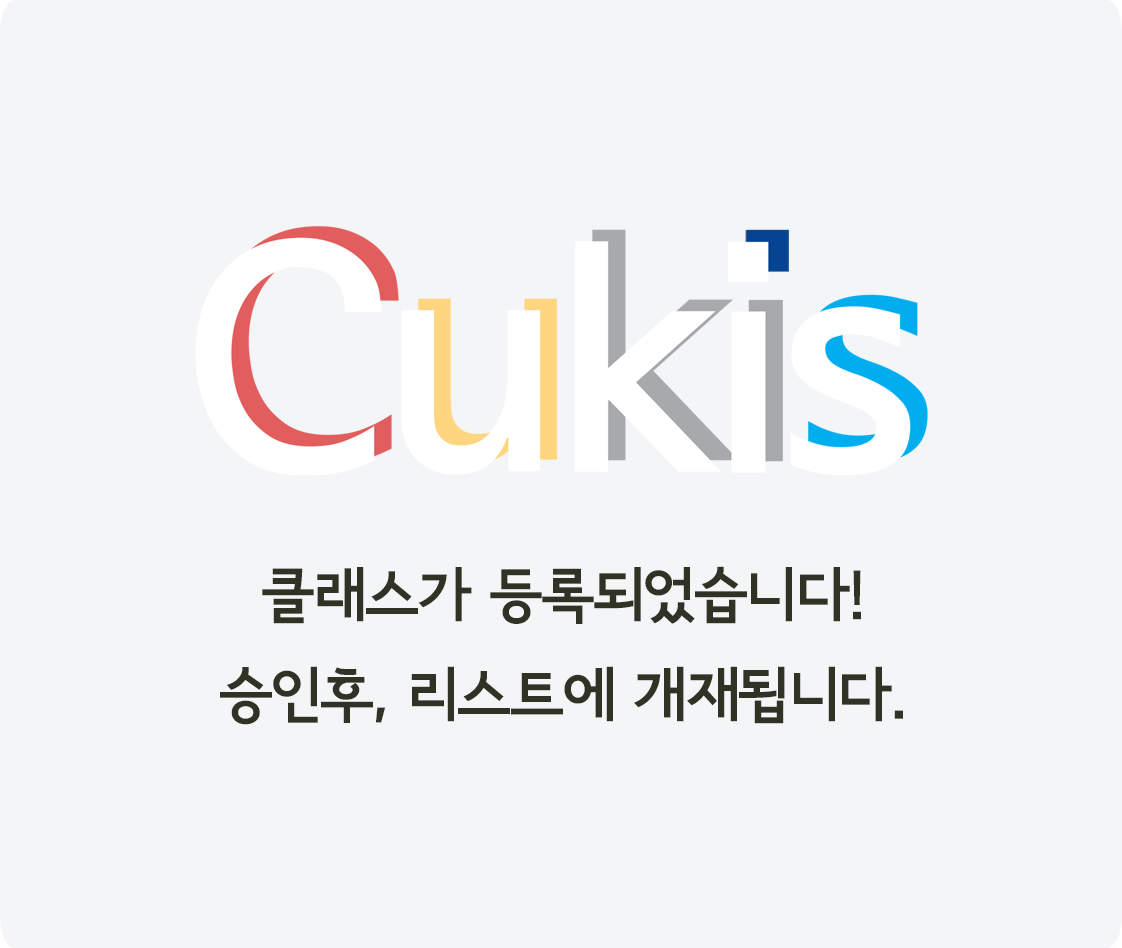
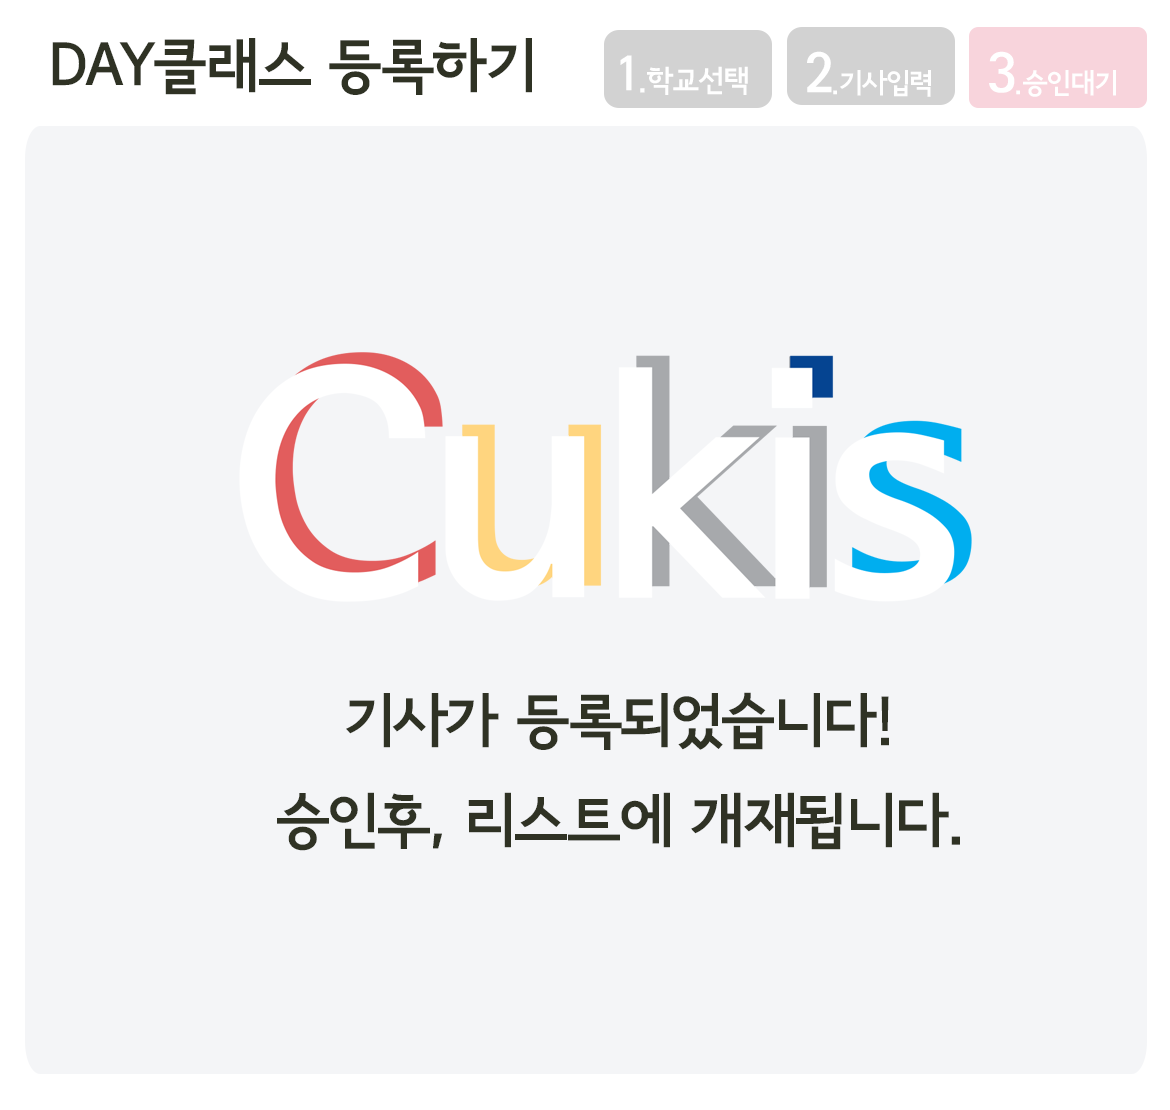
update

diff --git a/app/assets/stylesheets/dayclasses.css.scss b/app/assets/stylesheets/dayclasses.css.scss
@@ -37,8 +37,8 @@
    -moz-border-radius: 4px 4px 4px 4px;
         border-radius: 4px 4px 4px 4px;
 }
-.span9#dayclass-form{
-	width: 940px;
+.span7#dayclass-form{
+	width: 770px;
 }
 
 .span5#daylass-formhint{
@@ -554,3 +554,77 @@
 	width: 656px;
 	height: 440px;
 }
+
+//------- dayclass new
+.makeclass_title{
+	float: left;
+}
+.process{
+	// margin-left: 50px;
+	float: right;
+	width: 300px;
+	height: 50px;
+}
+
+///-------- how it works
+.cover-how{
+	background-color: #f5f3ec;
+	margin-left: auto;
+	margin-right: auto;
+	display: block;
+	width: 960px;
+	padding-bottom: 20px;
+	height: 650px;
+
+	.mid1{
+		width: 960px;
+		margin-top: 10px;
+		margin-bottom: 10px;
+		.processimg{
+			margin-left: 410px;
+		}
+	}
+	.mid2{
+
+		.left{
+			width: 310px;
+			padding-left: 10px;
+			padding-right: 10px;
+		}
+
+		.center{
+			width: 310px;
+			padding-left: 10px;
+			padding-right: 10px;
+			margin-left: 320px;
+			margin-top: -100px;
+		}
+		.right{
+			width: 310px;
+			padding-left: 10px;
+			padding-right: 10px;
+			float: right;
+			margin-right: -20px;
+			margin-top: -140px;
+		}
+	}
+	.bot{
+		width:960px;
+
+		#day-btn-padding{
+			margin-top: 20px;
+			padding: 10px 20px;
+		}
+
+		.btn.btn-danger{
+			margin-left: 300px;
+		}
+		.btn.btn-link{
+			margin-left: 500px;
+			margin-top: -60px;
+		}
+	}
+}
+
+
+

diff --git a/config/routes.rb b/config/routes.rb
@@ -1,6 +1,8 @@
 require 'api_constraints'
 
 Cukis::Application.routes.draw do
+  get "manage/dayclass_new"
+
   mount SmartEditor::Engine => '/smart_editor'
 
   namespace :api, defaults: {format: 'json'} do
@@ -55,6 +57,7 @@ Cukis::Application.routes.draw do
     end
     collection do
       get 'waitmento'
+      get 'howitworks'
     end
 
     member do
